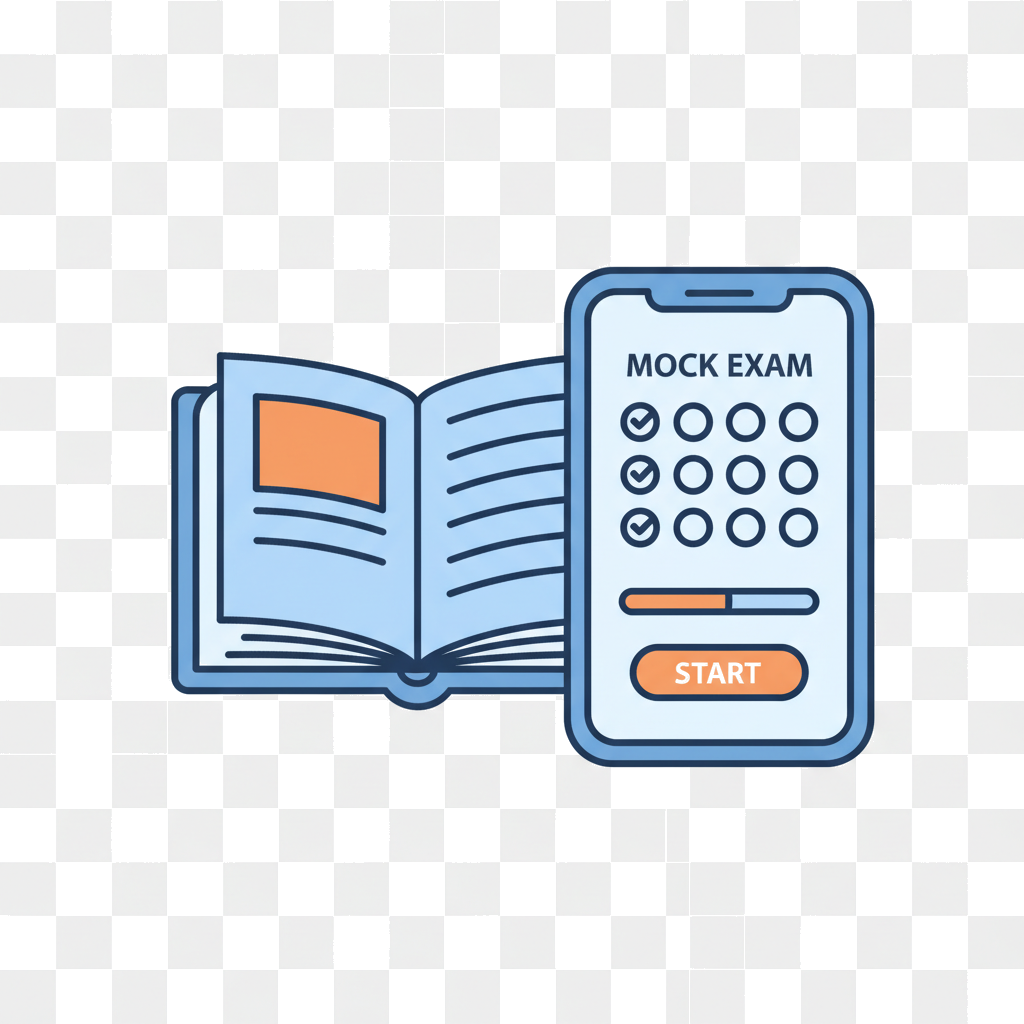
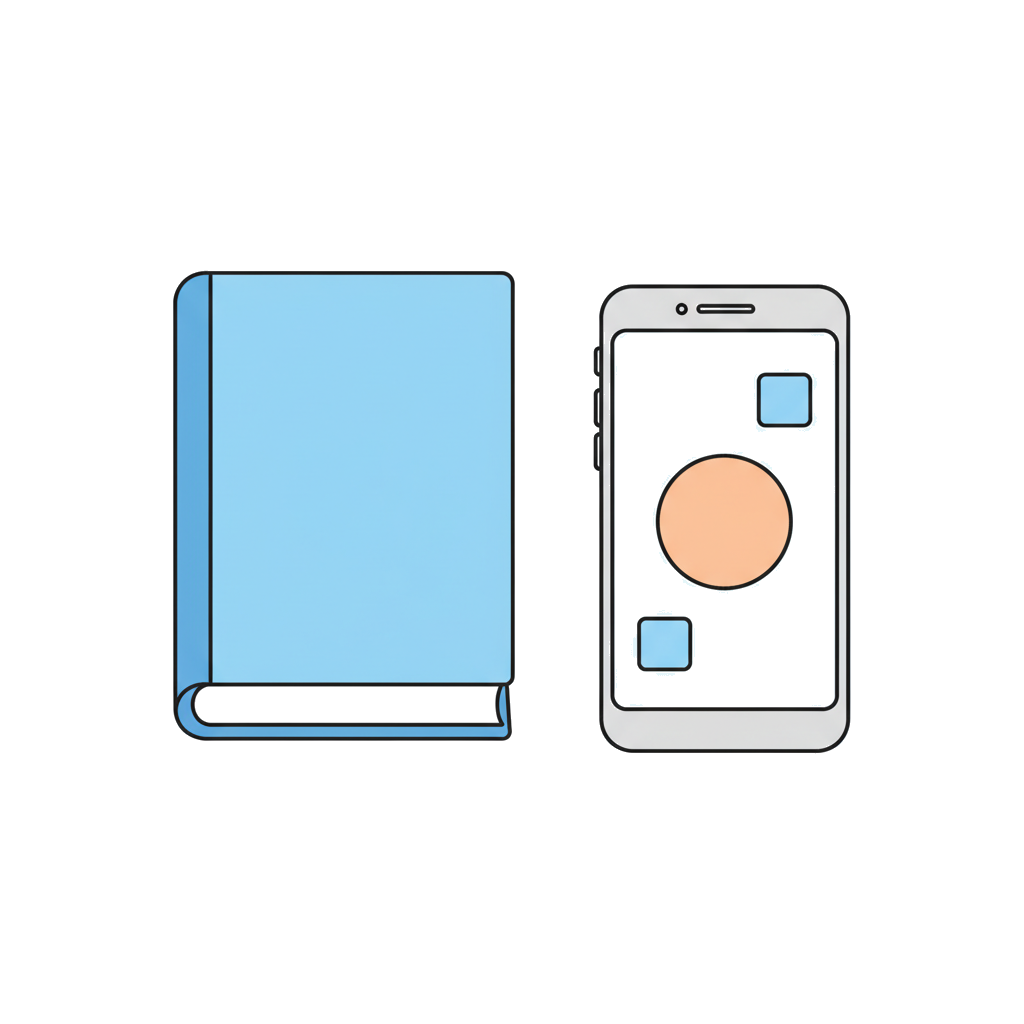
Improve top page: SEO-friendly h1, Kindai examples, fix image transparency
- Change h1 from "志望校を狙い撃ち" to "大学別問題集ならドリレオ"
- Replace service illustration with actual book cover in "ドリレオとは"
- Add "近大英語の例" section with book preview and mock exam screenshots
- Regenerate 3 illustrations with better white background removal

Changed region(s): [[0.1562, 0.25, 0.875, 0.75]]

diff --git a/src/app/page.tsx b/src/app/page.tsx
@@ -95,10 +95,12 @@ export default function DrilleoTopPage() {
           <div className="flex flex-col md:flex-row items-center gap-10">
             <div className="md:w-1/2 text-center md:text-left">
               <h1 className="text-4xl md:text-5xl lg:text-6xl font-bold mb-4 leading-tight text-text">
-                <span className="text-primary">志望校</span>を狙い撃ち。
+                <span className="text-primary">大学別</span>問題集なら
+                <br />
+                ドリレオ
               </h1>
               <p className="text-lg md:text-xl text-text-light mb-2 max-w-lg">
-                大学別に特化した問題集（書籍）& 無料Web模試
+                志望校に特化した問題集（書籍）& 無料Web模試
               </p>
               <p className="text-sm text-text-light max-w-lg leading-relaxed">
                 各大学の出題傾向を徹底分析し、本番と同じ形式のオリジナル問題を収録。
@@ -138,13 +140,19 @@ export default function DrilleoTopPage() {
               </p>
             </div>
             <div className="md:w-2/5 flex justify-center">
-              <Image
-                src="/images/illust/service-book-app.png"
-                alt="書籍とアプリのイラスト"
-                width={280}
-                height={280}
-                className="w-48 md:w-56 h-auto"
-              />
+              <div className="relative">
+                <Image
+                  src="/images/book-preview/cover-front.png"
+                  alt="近大英語 長文読解ドリル 表紙"
+                  width={400}
+                  height={566}
+                  className="w-44 md:w-52 h-auto rounded-lg shadow-xl"
+                  style={{ transform: "rotateY(-4deg)" }}
+                />
+                <div className="absolute -top-2 -right-2 bg-accent text-white text-[10px] font-bold px-2.5 py-1 rounded-full shadow-md">
+                  近大英語
+                </div>
+              </div>
             </div>
           </div>
         </div>
@@ -215,8 +223,129 @@ export default function DrilleoTopPage() {
         </div>
       </section>
 
-      {/* 対応大学 */}
+      {/* 近大英語の例 */}
       <section className="bg-bg-gray py-16 md:py-24">
+        <div className="max-w-5xl mx-auto px-6">
+          <div className="inline-block bg-primary/10 text-primary text-xs font-bold px-3 py-1.5 rounded-full mb-4 mx-auto block text-center">
+            近畿大学 英語 — 対応中
+          </div>
+          <h2 className="text-2xl md:text-3xl font-bold text-center mb-4 text-text">
+            たとえば「近大英語」では
+          </h2>
+          <p className="text-center text-text-light mb-12 max-w-2xl mx-auto">
+            近畿大学の英語入試を徹底分析した長文読解ドリルを提供しています。
+            書籍とWeb模試を組み合わせた学習で、効率的に合格力を高めます。
+          </p>
+
+          <div className="grid md:grid-cols-2 gap-10 md:gap-16 items-start">
+            {/* 書籍プレビュー */}
+            <div>
+              <h3 className="text-lg font-bold text-primary mb-4 text-center">書籍</h3>
+              <div className="flex justify-center gap-3">
+                <div className="w-32 md:w-40">
+                  <div className="rounded-lg overflow-hidden shadow-lg border border-border">
+                    <Image
+                      src="/images/book-preview/cover-front.png"
+                      alt="近大英語 長文読解ドリル 表紙"
+                      width={400}
+                      height={566}
+                      className="w-full h-auto"
+                    />
+                  </div>
+                  <p className="text-xs text-text-light text-center mt-2">表紙</p>
+                </div>
+                <div className="w-28 md:w-36">
+                  <div className="rounded-lg overflow-hidden shadow-md border border-border">
+                    <Image
+                      src="/images/book-preview/round1-009.png"
+                      alt="第1回 英文ページ"
+                      width={400}
+                      height={566}
+                      className="w-full h-auto"
+                    />
+                  </div>
+                  <p className="text-xs text-text-light text-center mt-2">英文ページ</p>
+                </div>
+                <div className="w-28 md:w-36">
+                  <div className="rounded-lg overflow-hidden shadow-md border border-border">
+                    <Image
+                      src="/images/book-preview/round1-010.png"
+                      alt="第1回 設問ページ"
+                      width={400}
+                      height={566}
+                      className="w-full h-auto"
+                    />
+                  </div>
+                  <p className="text-xs text-text-light text-center mt-2">設問ページ</p>
+                </div>
+              </div>
+              <ul className="text-sm text-text-light mt-4 space-y-1">
+                <li className="flex items-start gap-2">
+                  <span className="text-success font-bold mt-0.5">&#10003;</span>
+                  全25回分の長文読解（約400語 × 7問）
+                </li>
+                <li className="flex items-start gap-2">
+                  <span className="text-success font-bold mt-0.5">&#10003;</span>
+                  全問解説・全文和訳・語注付き
+                </li>
+              </ul>
+            </div>
+
+            {/* 模試スクリーンショット */}
+            <div>
+              <h3 className="text-lg font-bold text-accent mb-4 text-center">Web模試（無料）</h3>
+              <div className="flex justify-center gap-4">
+                <div className="w-36 md:w-44">
+                  <div className="rounded-2xl overflow-hidden shadow-lg border-4 border-gray-800 bg-gray-800">
+                    <Image
+                      src="/images/mock-1.PNG"
+                      alt="模試画面 — 長文読解"
+                      width={390}
+                      height={844}
+                      className="w-full h-auto"
+                    />
+                  </div>
+                  <p className="text-xs text-text-light text-center mt-2">長文を読む</p>
+                </div>
+                <div className="w-36 md:w-44">
+                  <div className="rounded-2xl overflow-hidden shadow-lg border-4 border-gray-800 bg-gray-800">
+                    <Image
+                      src="/images/mock-2.PNG"
+                      alt="模試画面 — 設問に解答"
+                      width={390}
+                      height={844}
+                      className="w-full h-auto"
+                    />
+                  </div>
+                  <p className="text-xs text-text-light text-center mt-2">設問に解答する</p>
+                </div>
+              </div>
+              <ul className="text-sm text-text-light mt-4 space-y-1">
+                <li className="flex items-start gap-2">
+                  <span className="text-success font-bold mt-0.5">&#10003;</span>
+                  タイマー付きの本番形式で腕試し
+                </li>
+                <li className="flex items-start gap-2">
+                  <span className="text-success font-bold mt-0.5">&#10003;</span>
+                  即時採点・解説・ランキング参加
+                </li>
+              </ul>
+            </div>
+          </div>
+
+          <div className="text-center mt-10">
+            <Link
+              href="/kindai"
+              className="inline-block bg-primary text-white font-bold px-8 py-3.5 rounded-lg hover:bg-primary-light transition shadow-lg shadow-primary/25"
+            >
+              近大英語の詳細を見る &rarr;
+            </Link>
+          </div>
+        </div>
+      </section>
+
+      {/* 対応大学 */}
+      <section className="py-16 md:py-24">
         <div className="max-w-5xl mx-auto px-6">
           <h2 className="text-2xl md:text-3xl font-bold text-center mb-4 text-text">
             対応大学
